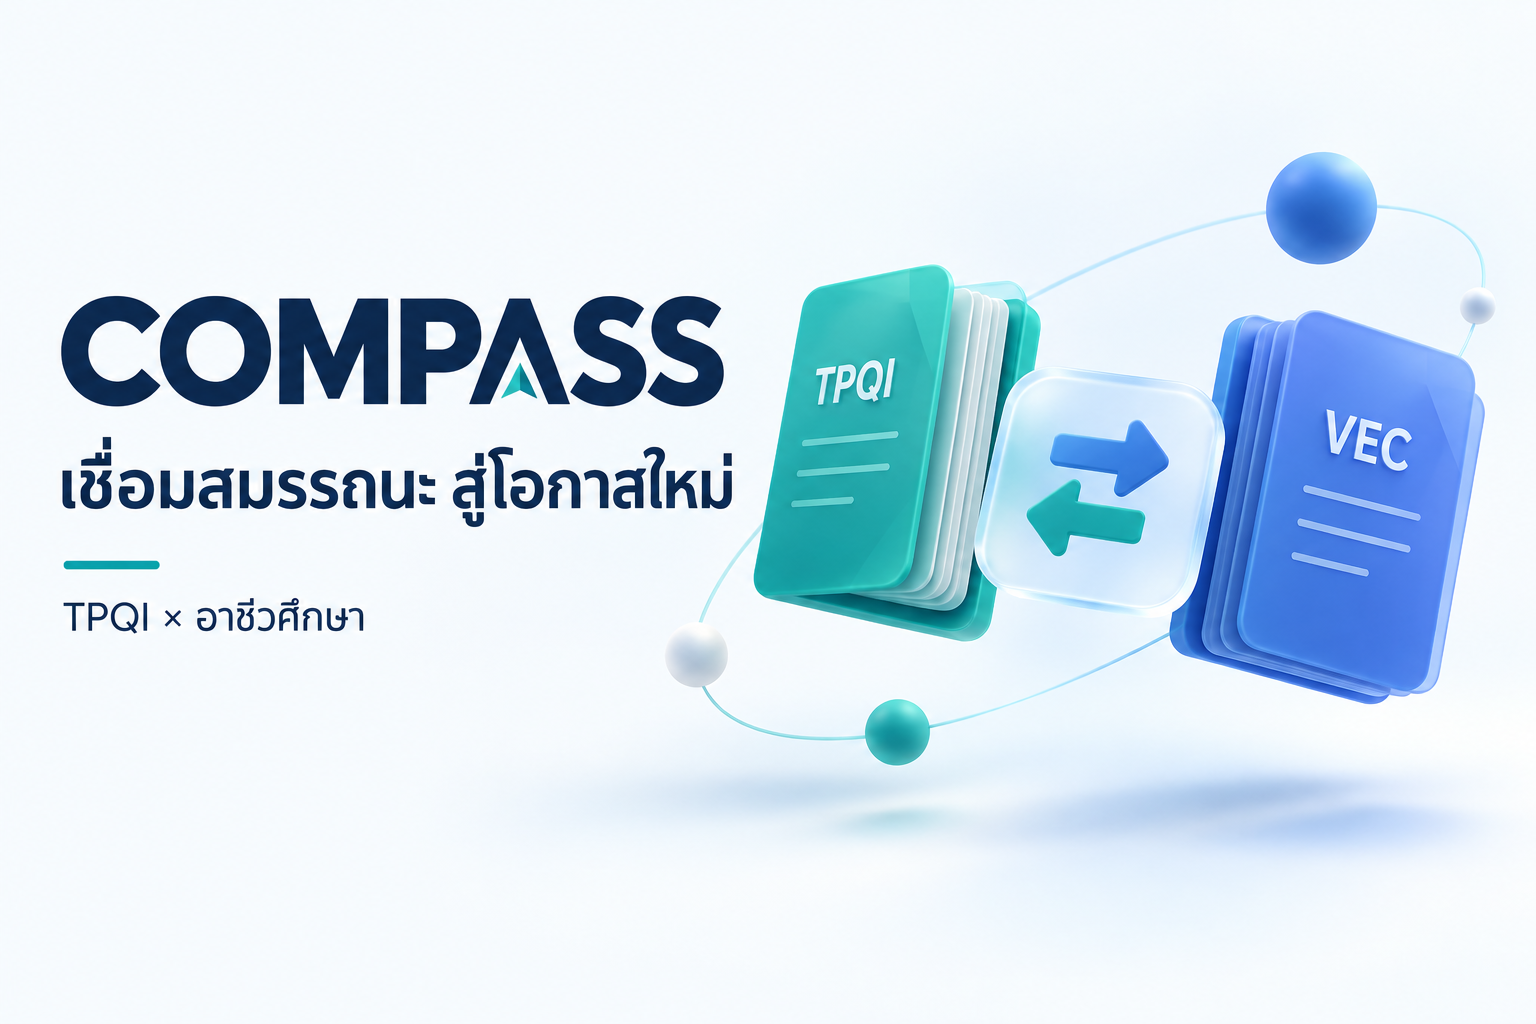
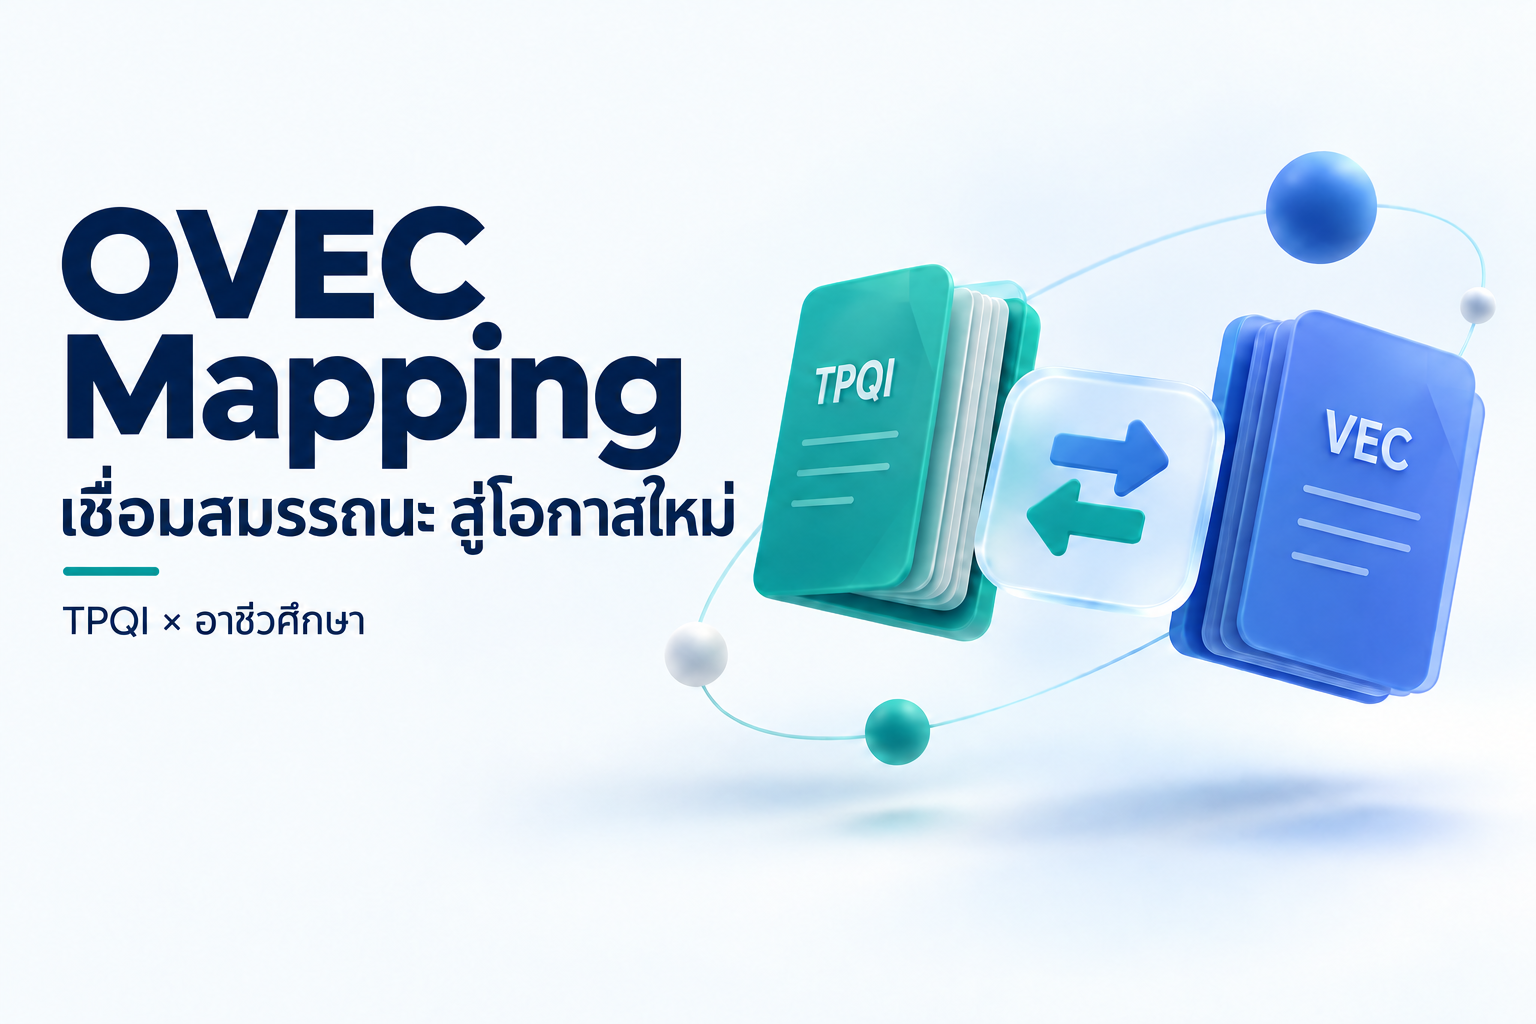
Rename the application and report branding to OVEC Mapping

diff --git a/app/layout.tsx b/app/layout.tsx
@@ -6,17 +6,22 @@ export async function generateMetadata(): Promise<Metadata> {
   const host = h.get("x-forwarded-host") || h.get("host") || "localhost:3000";
   const base = `${host.includes("localhost") ? "http" : "https"}://${host}`;
   return {
-    title: "COMPASS | ใบรับรอง TPQI เทียบวิชาอะไรได้บ้าง",
+    title: "OVEC Mapping | ใบรับรอง TPQI เทียบวิชาอะไรได้บ้าง",
     description:
       "ค้นรายวิชาที่เสนอให้พิจารณาเทียบโอนจากใบรับรองมาตรฐาน TPQI ที่สอบผ่าน พร้อมหลักฐานและการตรวจรับรองโดยผู้เชี่ยวชาญ",
     metadataBase: new URL(base),
     openGraph: {
-      title: "COMPASS · เชื่อมสมรรถนะ สู่โอกาสใหม่",
+      title: "OVEC Mapping · เชื่อมสมรรถนะ สู่โอกาสใหม่",
       description: "ระบบเทียบเคียง TPQI กับรายวิชาอาชีวศึกษา",
       type: "website",
-      images: [{ url: `${base}/og.png`, width: 1536, height: 1024 }],
+      images: [
+        { url: `${base}/og.png?v=ovec-mapping`, width: 1536, height: 1024 },
+      ],
     },
-    twitter: { card: "summary_large_image", images: [`${base}/og.png`] },
+    twitter: {
+      card: "summary_large_image",
+      images: [`${base}/og.png?v=ovec-mapping`],
+    },
     robots: { index: false, follow: false },
   };
 }

diff --git a/components/compass-app.tsx b/components/compass-app.tsx
@@ -119,7 +119,7 @@ export default function CompassApp() {
             <Compass size={29} strokeWidth={1.6} />
           </span>
           <span>
-            COMPASS<small>Competency Mapping</small>
+            OVEC Mapping<small>TPQI × อาชีวศึกษา</small>
           </span>
         </Link>
         <div className="workspace-label">
@@ -229,7 +229,7 @@ export default function CompassApp() {
           {view}
         </main>
         <footer className="app-footer">
-          <span>COMPASS · เชื่อมมาตรฐาน สู่การเรียนรู้</span>
+          <span>OVEC Mapping · เชื่อมมาตรฐาน สู่การเรียนรู้</span>
           <span>
             <ShieldCheck size={14} /> อ้างอิงเอกสาร · ตรวจสอบย้อนกลับ ·
             ผู้เชี่ยวชาญรับรอง

diff --git a/app/globals.css b/app/globals.css
@@ -195,9 +195,9 @@ textarea:disabled {
   align-items: center;
   padding: 0 5px;
   color: #18344a;
-  font-size: 22px;
+  font-size: 18px;
   font-weight: 800;
-  letter-spacing: 0.5px;
+  letter-spacing: 0;
 }
 .brand-icon {
   width: 43px;
@@ -2576,7 +2576,7 @@ tr:last-child td {
     display: none;
   }
   .brand {
-    font-size: 21px;
+    font-size: 18px;
   }
   .dashboard-columns {
     gap: 16px;

diff --git a/lib/bulk-api.ts b/lib/bulk-api.ts
@@ -164,7 +164,7 @@ export async function handleBulk(
         headers: {
           "Content-Type": "text/csv; charset=utf-8",
           "Content-Disposition":
-            'attachment; filename="compass-bulk-results.csv"',
+            'attachment; filename="ovec-mapping-bulk-results.csv"',
           "Cache-Control": "no-store",
           "X-Content-Type-Options": "nosniff",
         },

diff --git a/components/office-views.tsx b/components/office-views.tsx
@@ -1048,7 +1048,7 @@ export function ReportsView() {
         >
           <header className="report-header">
             <div className="report-brand">
-              COMPASS<small>TPQI × อาชีวศึกษา</small>
+              OVEC Mapping<small>TPQI × อาชีวศึกษา</small>
             </div>
             <div>
               <h1>

diff --git a/docs/IMPLEMENTATION.md b/docs/IMPLEMENTATION.md
@@ -1,4 +1,4 @@
-# สถานะการพัฒนา COMPASS 0.2
+# สถานะการพัฒนา OVEC Mapping 0.2
 
 วันที่ 11 กันยายน 2569 — รุ่นสำหรับทดลองใช้งานและตรวจรับร่วมกับผู้เชี่ยวชาญ
 
@@ -55,4 +55,4 @@ Sites ยืนยันตัวตนและส่ง `oai-authenticated-use
 
 ## ภาพประกอบ
 
-ภาพ social cover `public/og.png` สร้างด้วย imagegen ใช้หนังสือ 3D โทน teal/blue กับข้อความ COMPASS / เชื่อมสมรรถนะ สู่โอกาสใหม่ / TPQI × อาชีวศึกษา ภาพบนหน้า dashboard ใช้ CSS เพื่อคมชัดและรองรับ reduced motion
+ภาพ social cover `public/og.png` สร้างด้วย imagegen ใช้หนังสือ 3D โทน teal/blue กับข้อความ OVEC Mapping / เชื่อมสมรรถนะ สู่โอกาสใหม่ / TPQI × อาชีวศึกษา ภาพบนหน้า dashboard ใช้ CSS เพื่อคมชัดและรองรับ reduced motion

diff --git a/README.md b/README.md
@@ -1,6 +1,6 @@
 # ระบบเทียบเคียงสมรรถนะและพิจารณาเทียบโอน TPQI กับรายวิชาอาชีวศึกษา
 
-COMPASS รุ่น 0.5 | 11 กันยายน 2569 | แอปพลิเคชันสำหรับทดลองงานจริงและตรวจรับ
+OVEC Mapping รุ่น 0.5 | 11 กันยายน 2569 | แอปพลิเคชันสำหรับทดลองงานจริงและตรวจรับ
 
 จุดเริ่มต้นคือ **ใบรับรองมาตรฐานที่สอบผ่าน → รายวิชาที่เสนอให้พิจารณาเทียบโอน** เปิดหน้าหลัก เลือกมาตรฐาน ระดับ และ UoC ตามใบรับรอง ดูผลที่คำนวณไว้พร้อมหลักฐาน พิมพ์ผล และส่งข้อมูลไปเตรียมคำร้องได้ ดู [รายละเอียดผลจากใบรับรอง](docs/CERTIFICATE_MAPPING.md)
 
